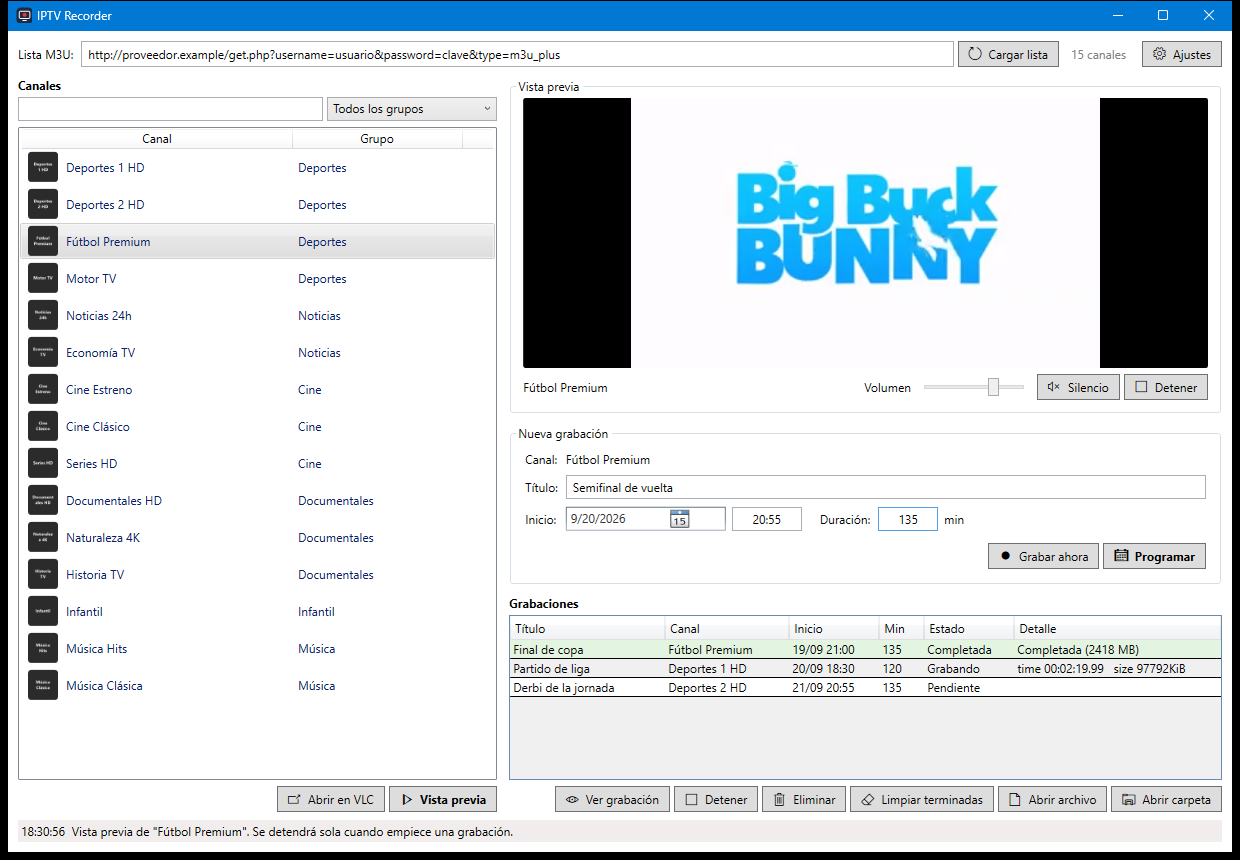
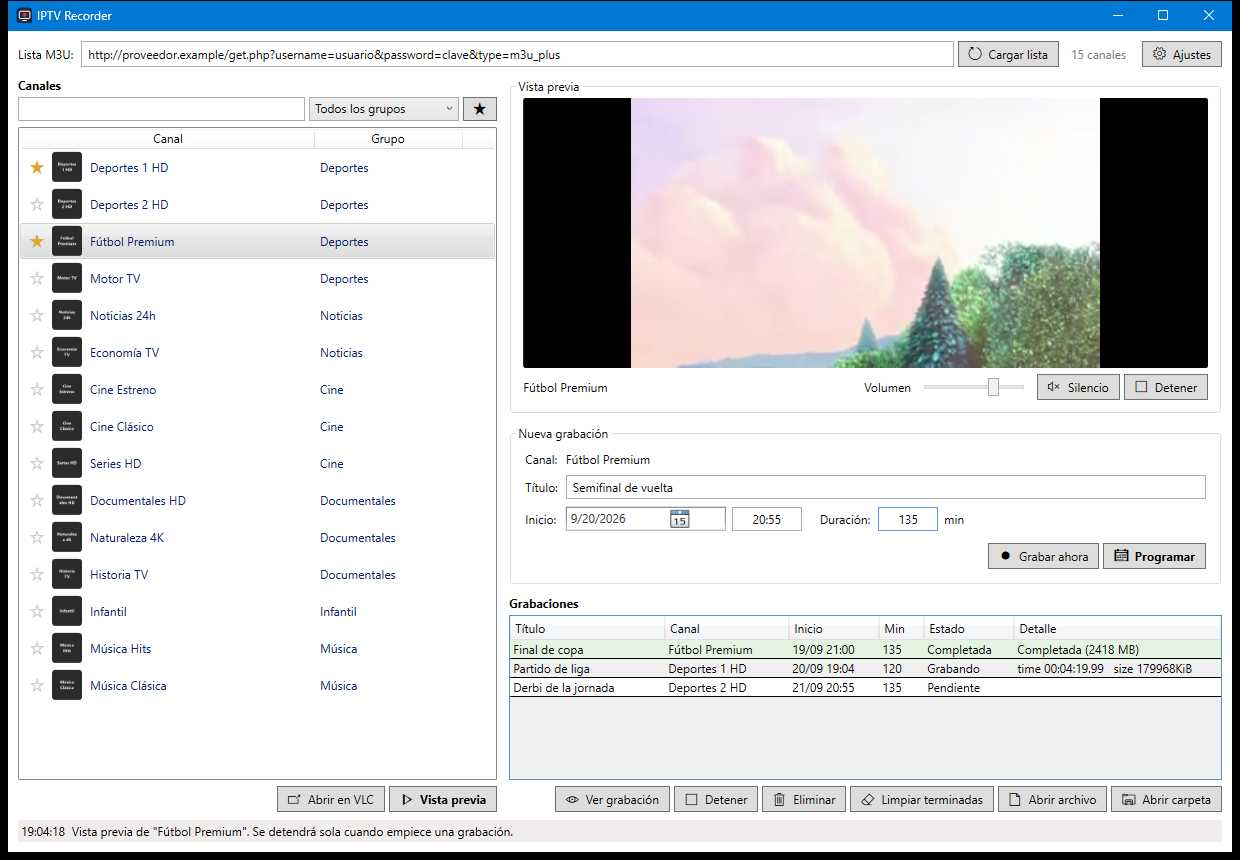
Mark channels as favourites and filter by them
A star on each row toggles a favourite; the star button next to the group
filter shows only those. Favourites are stored by the channel tvg-id so
they survive the provider renaming a channel, falling back to the name
when the list carries no id.

The filter refreshes on Checked/Unchecked rather than Click, so it also
reacts when the toggle is set programmatically.

Claude-Session: https://claude.ai/code/session_01PLmKPQmk7RKYaSJT1D6BU3

diff --git a/MainWindow.xaml b/MainWindow.xaml
@@ -24,6 +24,38 @@
             <Setter Property="Padding" Value="4,3"/>
             <Setter Property="VerticalContentAlignment" Value="Center"/>
         </Style>
+        <!-- Estrella de favorito dentro de la fila: sin marco, gris si no lo es y
+             dorada si lo es. -->
+        <Style x:Key="StarButton" TargetType="Button">
+            <Setter Property="Background" Value="Transparent"/>
+            <Setter Property="BorderThickness" Value="0"/>
+            <Setter Property="Padding" Value="2,0"/>
+            <Setter Property="Margin" Value="0,0,6,0"/>
+            <Setter Property="MinWidth" Value="0"/>
+            <Setter Property="Cursor" Value="Hand"/>
+            <Setter Property="FontFamily" Value="Segoe MDL2 Assets"/>
+            <Setter Property="FontSize" Value="14"/>
+            <Setter Property="Foreground" Value="#C8C8C8"/>
+            <Setter Property="Content" Value="&#xE734;"/>
+            <Setter Property="Template">
+                <Setter.Value>
+                    <ControlTemplate TargetType="Button">
+                        <Border Background="{TemplateBinding Background}" Padding="{TemplateBinding Padding}">
+                            <ContentPresenter HorizontalAlignment="Center" VerticalAlignment="Center"/>
+                        </Border>
+                    </ControlTemplate>
+                </Setter.Value>
+            </Setter>
+            <Style.Triggers>
+                <Trigger Property="IsMouseOver" Value="True">
+                    <Setter Property="Foreground" Value="#808080"/>
+                </Trigger>
+                <DataTrigger Binding="{Binding IsFavorite}" Value="True">
+                    <Setter Property="Content" Value="&#xE735;"/>
+                    <Setter Property="Foreground" Value="#E0A32E"/>
+                </DataTrigger>
+            </Style.Triggers>
+        </Style>
         <Style TargetType="TextBlock" x:Key="Label">
             <Setter Property="VerticalAlignment" Value="Center"/>
             <Setter Property="Margin" Value="0,0,8,0"/>
@@ -66,9 +98,14 @@
                     <Grid.ColumnDefinitions>
                         <ColumnDefinition Width="*"/>
                         <ColumnDefinition Width="Auto"/>
+                        <ColumnDefinition Width="Auto"/>
                     </Grid.ColumnDefinitions>
                     <TextBox x:Name="SearchBox" TextChanged="Filter_Changed" ToolTip="{DynamicResource Search_Tip}"/>
-                    <ComboBox x:Name="GroupFilter" Grid.Column="1" Width="170" Margin="4,0,0,0" SelectionChanged="Filter_Changed"/>
+                    <ComboBox x:Name="GroupFilter" Grid.Column="1" Width="150" Margin="4,0,0,0" SelectionChanged="Filter_Changed"/>
+                    <ToggleButton x:Name="FavFilter" Grid.Column="2" Content="" local:Icon.Glyph="&#xE735;"
+                                  MinWidth="34" Margin="4,0,0,0" Padding="6,2,0,2"
+                                  ToolTip="{DynamicResource Fav_Filter_Tip}"
+                                  Checked="Filter_Changed" Unchecked="Filter_Changed"/>
                 </Grid>
                 <StackPanel DockPanel.Dock="Bottom" Orientation="Horizontal" HorizontalAlignment="Right" Margin="0,6,0,0">
                     <Button Content="{DynamicResource Btn_OpenExternal}" Click="OpenExternal_Click" ToolTip="{DynamicResource Btn_OpenExternal_Tip}"
@@ -79,10 +116,12 @@
                 <ListView x:Name="ChannelList" SelectionChanged="ChannelList_SelectionChanged" MouseDoubleClick="ChannelList_DoubleClick">
                     <ListView.View>
                         <GridView>
-                            <GridViewColumn Header="{DynamicResource Col_Channel}" Width="270">
+                            <GridViewColumn Header="{DynamicResource Col_Channel}" Width="292">
                                 <GridViewColumn.CellTemplate>
                                     <DataTemplate>
                                         <StackPanel Orientation="Horizontal">
+                                            <Button Style="{StaticResource StarButton}" Click="Favorite_Click"
+                                                    ToolTip="{DynamicResource Fav_Tip}"/>
                                             <!-- Casi todos los logotipos de televisión son blancos sobre fondo
                                                  transparente, así que van sobre una pastilla oscura. Sin logotipo
                                                  la pastilla es invisible, para que los nombres sigan alineados. -->
@@ -107,7 +146,7 @@
                                     </DataTemplate>
                                 </GridViewColumn.CellTemplate>
                             </GridViewColumn>
-                            <GridViewColumn Header="{DynamicResource Col_Group}" Width="170" DisplayMemberBinding="{Binding Group}"/>
+                            <GridViewColumn Header="{DynamicResource Col_Group}" Width="148" DisplayMemberBinding="{Binding Group}"/>
                         </GridView>
                     </ListView.View>
                 </ListView>

diff --git a/Strings/Strings.es.xaml b/Strings/Strings.es.xaml
@@ -10,6 +10,8 @@
     <sys:String x:Key="Btn_Settings">Ajustes</sys:String>
     <sys:String x:Key="Channels_Header">Canales</sys:String>
     <sys:String x:Key="Search_Tip">Buscar canal por nombre</sys:String>
+    <sys:String x:Key="Fav_Tip">Marcar como favorito</sys:String>
+    <sys:String x:Key="Fav_Filter_Tip">Mostrar solo los favoritos</sys:String>
     <sys:String x:Key="Btn_OpenExternal">Abrir en VLC</sys:String>
     <sys:String x:Key="Btn_OpenExternal_Tip">Abre el canal en VLC en una ventana aparte</sys:String>
     <sys:String x:Key="Btn_Preview">Vista previa</sys:String>

diff --git a/Strings/Strings.en.xaml b/Strings/Strings.en.xaml
@@ -10,6 +10,8 @@
     <sys:String x:Key="Btn_Settings">Settings</sys:String>
     <sys:String x:Key="Channels_Header">Channels</sys:String>
     <sys:String x:Key="Search_Tip">Search channel by name</sys:String>
+    <sys:String x:Key="Fav_Tip">Mark as favourite</sys:String>
+    <sys:String x:Key="Fav_Filter_Tip">Show favourites only</sys:String>
     <sys:String x:Key="Btn_OpenExternal">Open in VLC</sys:String>
     <sys:String x:Key="Btn_OpenExternal_Tip">Opens the channel in VLC in a separate window</sys:String>
     <sys:String x:Key="Btn_Preview">Preview</sys:String>

diff --git a/MainWindow.xaml.cs b/MainWindow.xaml.cs
@@ -20,6 +20,7 @@ public partial class MainWindow : Window
     private readonly PreviewPlayer _external = new();
     private EmbeddedPreview? _preview;
     private List<Channel> _channels = new();
+    private HashSet<string> _favorites = new(StringComparer.OrdinalIgnoreCase);
     private Channel? _selected;
     private string _previewUrl = "";
     private WinForms.NotifyIcon? _tray;
@@ -40,6 +41,7 @@ public partial class MainWindow : Window
         InitializeComponent();
 
         _settings = Store.LoadSettings();
+        _favorites = Store.LoadFavorites();
         _recordings = new ObservableCollection<Recording>(Store.LoadRecordings().OrderBy(r => r.Start));
         _scheduler = new RecordingScheduler(_recordings, () => _settings);
         _scheduler.Log += msg => SetStatus(msg);
@@ -142,6 +144,7 @@ public partial class MainWindow : Window
     private void ApplyChannels(List<Channel> channels, bool fromCache)
     {
         _channels = channels;
+        foreach (var c in _channels) c.IsFavorite = _favorites.Contains(c.Key);
         RebuildGroupFilter();
 
         var view = CollectionViewSource.GetDefaultView(_channels);
@@ -166,6 +169,7 @@ public partial class MainWindow : Window
     private bool FilterChannel(object obj)
     {
         if (obj is not Channel c) return false;
+        if (FavFilter.IsChecked == true && !c.IsFavorite) return false;
         if (GroupFilter.SelectedItem is string group && c.Group != group) return false;
 
         var q = SearchBox.Text.Trim();
@@ -179,6 +183,21 @@ public partial class MainWindow : Window
     {
         if (ChannelList.ItemsSource == null) return;
         CollectionViewSource.GetDefaultView(ChannelList.ItemsSource).Refresh();
+    }
+
+    /// <summary>Marca o desmarca un canal como favorito. Se recuerda por el identificador
+    /// de la lista, así que sobrevive a que el proveedor renombre el canal.</summary>
+    private void Favorite_Click(object sender, RoutedEventArgs e)
+    {
+        if (sender is not FrameworkElement { DataContext: Channel channel }) return;
+
+        channel.IsFavorite = !channel.IsFavorite;
+        if (channel.IsFavorite) _favorites.Add(channel.Key);
+        else _favorites.Remove(channel.Key);
+        Store.SaveFavorites(_favorites);
+
+        // Al quitar un favorito mientras se filtra por favoritos, la fila debe irse.
+        if (FavFilter.IsChecked == true) Filter_Changed(sender, e);
     }
 
     /// <summary>Cada fila pide su logotipo al hacerse visible, de modo que con miles de

diff --git a/Store.cs b/Store.cs
@@ -53,6 +53,32 @@ public static class Store
         File.WriteAllText(RecordingsFile, JsonSerializer.Serialize(list.ToList(), Options));
     }
 
+    private static readonly string FavoritesFile = Path.Combine(Dir, "favorites.json");
+
+    public static HashSet<string> LoadFavorites()
+    {
+        try
+        {
+            if (File.Exists(FavoritesFile))
+            {
+                var list = JsonSerializer.Deserialize<List<string>>(File.ReadAllText(FavoritesFile), Options);
+                if (list != null) return new HashSet<string>(list, StringComparer.OrdinalIgnoreCase);
+            }
+        }
+        catch { }
+        return new HashSet<string>(StringComparer.OrdinalIgnoreCase);
+    }
+
+    public static void SaveFavorites(IEnumerable<string> keys)
+    {
+        try
+        {
+            Directory.CreateDirectory(Dir);
+            File.WriteAllText(FavoritesFile, JsonSerializer.Serialize(keys.ToList(), Options));
+        }
+        catch { }
+    }
+
     public static string? LoadChannelsCache()
     {
         try { return File.Exists(ChannelsCache) ? File.ReadAllText(ChannelsCache) : null; }

diff --git a/Models.cs b/Models.cs
@@ -12,6 +12,19 @@ public class Channel : INotifyPropertyChanged
     public string Group { get; set; } = "";
     public string Logo { get; set; } = "";
     public string Url { get; set; } = "";
+    /// <summary>Identificador del canal en la lista (tvg-id), si lo trae.</summary>
+    public string TvgId { get; set; } = "";
+
+    /// <summary>Clave con la que se recuerdan los favoritos. Se prefiere el identificador
+    /// de la lista porque sobrevive a los cambios de nombre del proveedor.</summary>
+    public string Key => TvgId.Length > 0 ? TvgId : Name;
+
+    private bool _isFavorite;
+    public bool IsFavorite
+    {
+        get => _isFavorite;
+        set { _isFavorite = value; PropertyChanged?.Invoke(this, new PropertyChangedEventArgs(nameof(IsFavorite))); }
+    }
 
     private ImageSource? _logoImage;
     /// <summary>Logotipo ya descargado, o null mientras no lo esté.</summary>

diff --git a/M3uParser.cs b/M3uParser.cs
@@ -52,6 +52,7 @@ public static partial class M3uParser
                 case "group-title": ch.Group = val; break;
                 case "tvg-logo": ch.Logo = val; break;
                 case "tvg-name": if (ch.Name.Length == 0) ch.Name = val; break;
+                case "tvg-id": ch.TvgId = val; break;
             }
         }
 

diff --git a/README.md b/README.md
@@ -6,7 +6,7 @@ Grabador de canales IPTV para Windows. Carga una lista M3U, busca el canal y pro
 
 ## Qué hace
 
-- **Lista de canales** (izquierda): se carga desde el enlace M3U del proveedor y queda en caché. Búsqueda por nombre y filtro por grupo. Cada canal muestra su logotipo, que se descarga solo cuando la fila aparece en pantalla y se guarda para las siguientes veces.
+- **Lista de canales** (izquierda): se carga desde el enlace M3U del proveedor y queda en caché. Búsqueda por nombre y filtro por grupo. Cada canal muestra su logotipo, que se descarga solo cuando la fila aparece en pantalla y se guarda para las siguientes veces. La estrella de cada fila marca favoritos, y el botón de estrella junto al filtro de grupo deja ver solo esos.
 - **Vista previa** (arriba a la derecha): reproduce el canal dentro de la app antes de grabar, con volumen y silencio. "Abrir en VLC" lo abre en una ventana aparte.
 - **Ver mientras se graba**: el botón "Ver grabación" muestra lo que se está grabando en ese momento. No abre una segunda conexión al proveedor, así que no interfiere con la grabación aunque tu servicio solo permita una conexión. Si ya estabas viendo el canal cuando arranca su grabación programada, la imagen vuelve sola a los pocos segundos.
 - **Nueva grabación**: título, fecha, hora y duración. "Programar" la deja en cola; "Grabar ahora" empieza al momento.

diff --git a/TODO.md b/TODO.md
@@ -42,10 +42,12 @@ Lista de mejoras por orden de prioridad.
   `Icon.Glyph` y una plantilla compartida en `App.xaml`. Sin dependencias ni archivos
   de imagen.
 
-## Siguientes
+- [x] **6. Favoritos**
+  Estrella en cada fila y botón para ver solo los favoritos. Se guardan en
+  `favorites.json` por el `tvg-id` del canal, que sobrevive a que el proveedor lo
+  renombre; si la lista no trae identificador se usa el nombre.
 
-- [ ] **6. Favoritos**
-  Marcar los canales que se usan de verdad y poder filtrar solo por ellos.
+## Siguientes
 
 - [ ] **7. Formato de fecha según el idioma**
   Con la interfaz en español las fechas salen en formato estadounidense, porque el
